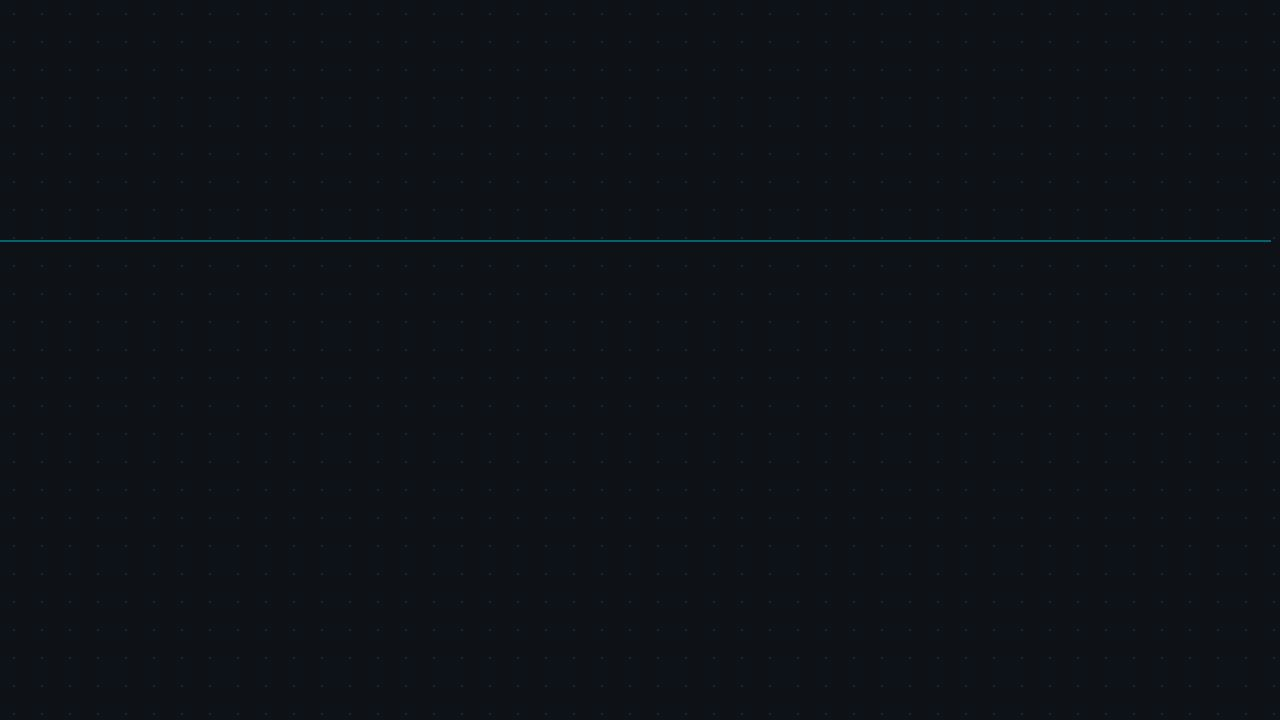
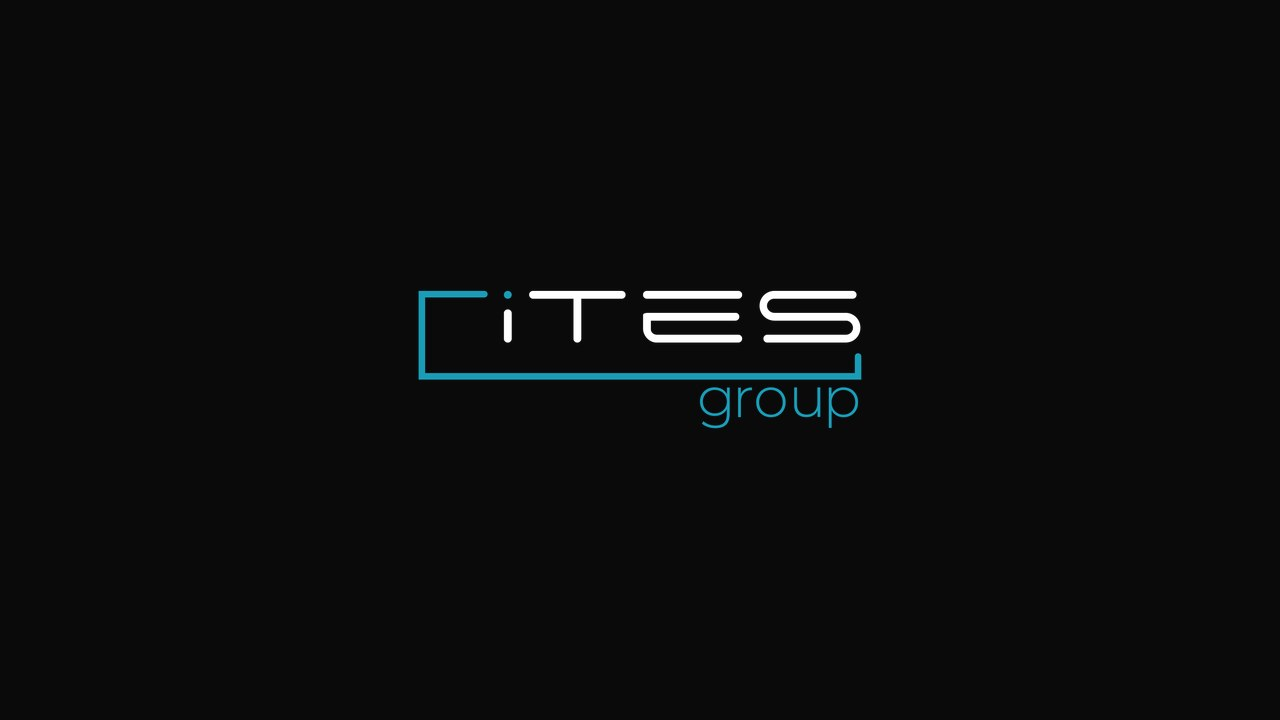
Логотип компании: ИТЭС-Хоум -> ИТЭС group
- в шапке, меню, плитке главного экрана и подвале — логотип ITES group
  (версия с тёмной надписью для светлой темы, с белой — для тёмной)
- подписи логотипа обновлены на «ИТЭС group»
- иконки сайта (favicon 16/32/ico, apple-touch-icon, android-chrome 192/512)
  и favicon.svg — из фирменного знака, векторная иконка переключает цвет под тему браузера
- превью для соцсетей (opengraph.jpg) — логотип ITES group на фирменном тёмном фоне

Changed region(s): [[0.3125, 0.3972, 0.6875, 0.5806]]

diff --git a/src/components/SiteHeader.tsx b/src/components/SiteHeader.tsx
@@ -8,8 +8,8 @@ import { Link, useLocation } from "wouter";
 import { Menu, Moon, Phone, Sun, X } from "lucide-react";
 import { useTheme } from "@/contexts/ThemeContext";
 import { COMPANY, NAV } from "@/content/site";
-import logoForDark from "@assets/ites_fin_var_black_1_1774953769032.png";
-import logoForLight from "@assets/ites_fin_var_1_1774953769031.png";
+import logoForDark from "@assets/ites-group-logo_dark-theme.png";
+import logoForLight from "@assets/ites-group-logo_light-theme.png";
 import { url } from "@/lib/url";
 
 export function SiteHeader({ solid = false }: { solid?: boolean }) {
@@ -38,10 +38,10 @@ export function SiteHeader({ solid = false }: { solid?: boolean }) {
       ].join(" ")}
     >
       <div className="max-w-7xl mx-auto px-4 sm:px-6 h-16 flex items-center justify-between gap-4">
-        <Link href={url("/")} className="flex items-center shrink-0" aria-label={COMPANY.shortName}>
+        <Link href={url("/")} className="flex items-center shrink-0" aria-label={COMPANY.brand}>
           <img
             src={url(theme === "dark" ? logoForDark : logoForLight)}
-            alt={`${COMPANY.shortName} — ${COMPANY.tagline}`}
+            alt={`${COMPANY.brand} — ${COMPANY.tagline}`}
             className="h-8 w-auto object-contain"
             draggable={false}
           />

diff --git a/src/pages/home.tsx b/src/pages/home.tsx
@@ -22,8 +22,8 @@ import bankRenaissance from "@assets/bank-renaissance_1774953840833.png";
 import bankRusstandart from "@assets/bank-russtandart_1774953840834.png";
 import bankSovkom from "@assets/bank-sovkom_1774953840834.png";
 import bankTbank from "@assets/bank-tbank_1774953840834.png";
-import logoForDark from "@assets/ites_fin_var_black_1_1774953769032.png";
-import logoForLight from "@assets/ites_fin_var_1_1774953769031.png";
+import logoForDark from "@assets/ites-group-logo_dark-theme.png";
+import logoForLight from "@assets/ites-group-logo_light-theme.png";
 import {
   CreditCard, DollarSign, ArrowUpRight, ChevronLeft, ChevronRight, MapPin
 } from "lucide-react";
@@ -777,7 +777,7 @@ export default function Home() {
           <div className="cursor-pointer" onClick={() => window.scrollTo({ top: 0, behavior: "smooth" })}>
             <img
               src={theme === "dark" ? logoForDark : logoForLight}
-              alt="ИТЭС-Хоум"
+              alt="ИТЭС group"
               loading="lazy"
               decoding="async"
               className="h-8 w-auto object-contain opacity-70 hover:opacity-100 transition-opacity"

diff --git a/src/components/Navbar.tsx b/src/components/Navbar.tsx
@@ -2,8 +2,8 @@ import { useState, useEffect } from "react";
 import { motion, AnimatePresence } from "framer-motion";
 import { Sun, Moon } from "lucide-react";
 import { useTheme } from "@/contexts/ThemeContext";
-import logoForDark from "@assets/ites_fin_var_black_1_1774953769032.png";
-import logoForLight from "@assets/ites_fin_var_1_1774953769031.png";
+import logoForDark from "@assets/ites-group-logo_dark-theme.png";
+import logoForLight from "@assets/ites-group-logo_light-theme.png";
 import { url } from "@/lib/url";
 
 const SECTIONS = [
@@ -66,7 +66,7 @@ export function Navbar() {
             >
               <img
                 src={url(theme === "dark" ? logoForDark : logoForLight)}
-                alt="ИТЭС-Хоум"
+                alt="ИТЭС group"
                 className="h-8 w-auto object-contain"
                 draggable={false}
               />

diff --git a/src/components/HeroGrid.tsx b/src/components/HeroGrid.tsx
@@ -1,8 +1,8 @@
 import { motion } from "framer-motion";
 import { Sun, Moon } from "lucide-react";
 import { useTheme } from "@/contexts/ThemeContext";
-import logoForDark from "@assets/ites_fin_var_black_1_1774953769032.png";
-import logoForLight from "@assets/ites_fin_var_1_1774953769031.png";
+import logoForDark from "@assets/ites-group-logo_dark-theme.png";
+import logoForLight from "@assets/ites-group-logo_light-theme.png";
 import { url } from "@/lib/url";
 
 const NAV_ITEMS = [
@@ -72,7 +72,7 @@ export function HeroGrid() {
       >
         <img
           src={url(theme === "dark" ? logoForDark : logoForLight)}
-          alt="ИТЭС-Хоум"
+          alt="ИТЭС group"
           fetchPriority="high"
           loading="eager"
           decoding="sync"

diff --git a/index.html b/index.html
@@ -8,6 +8,7 @@
     <!--HEAD-END-->
 
     <!-- Favicon -->
+    <link rel="icon" type="image/svg+xml" href="/favicon.svg" />
     <link rel="icon" type="image/x-icon" href="/favicon.ico" />
     <link rel="icon" type="image/png" sizes="16x16" href="/favicon-16x16.png" />
     <link rel="icon" type="image/png" sizes="32x32" href="/favicon-32x32.png" />

diff --git a/src/content/site.ts b/src/content/site.ts
@@ -7,6 +7,7 @@ export const COMPANY = {
   name: "ООО «ИТЭС-Хоум»",
   shortName: "ИТЭС-Хоум",
   group: "ГК ИТЭС",
+  brand: "ИТЭС group",
   tagline: "Строительно-монтажная компания полного цикла",
   city: "Самара",
   region: "Самарская область",
